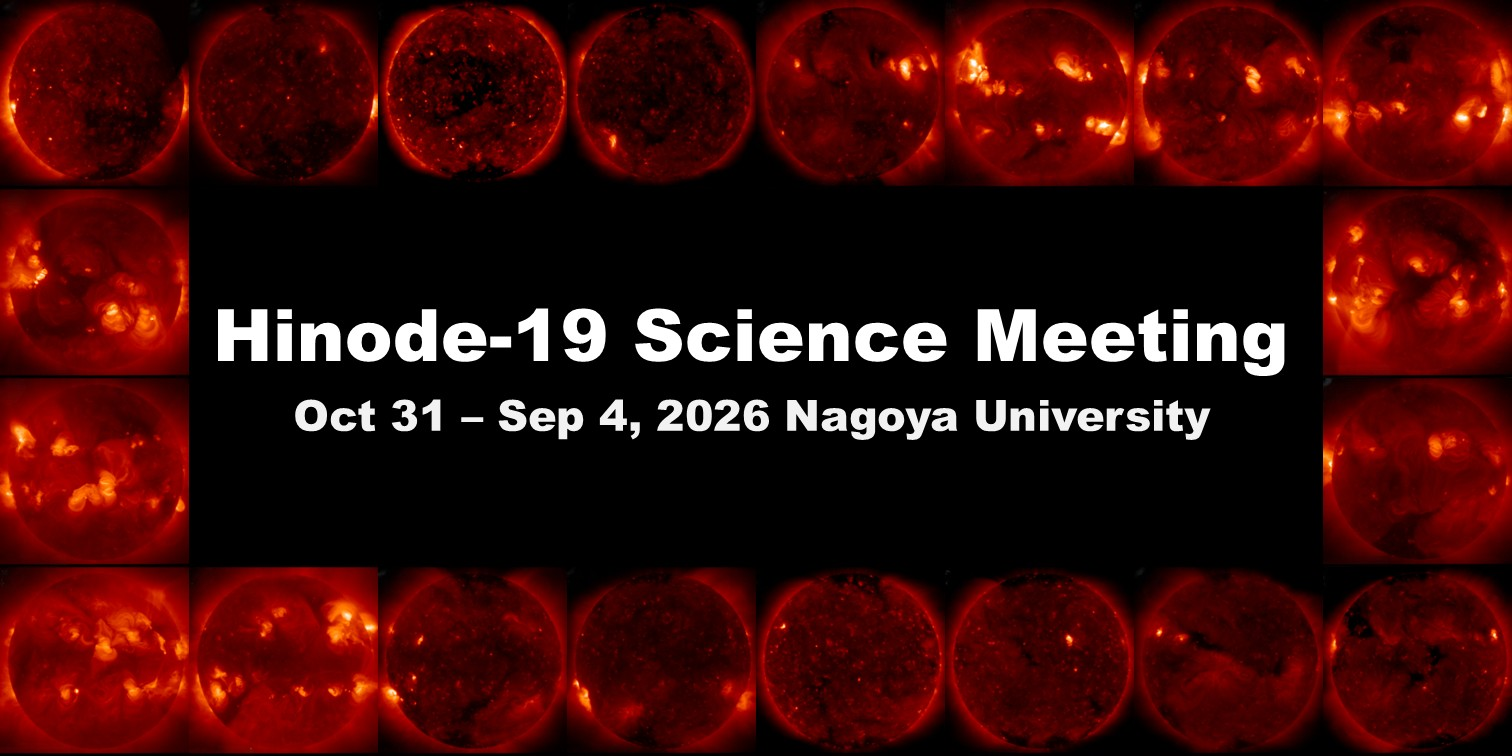
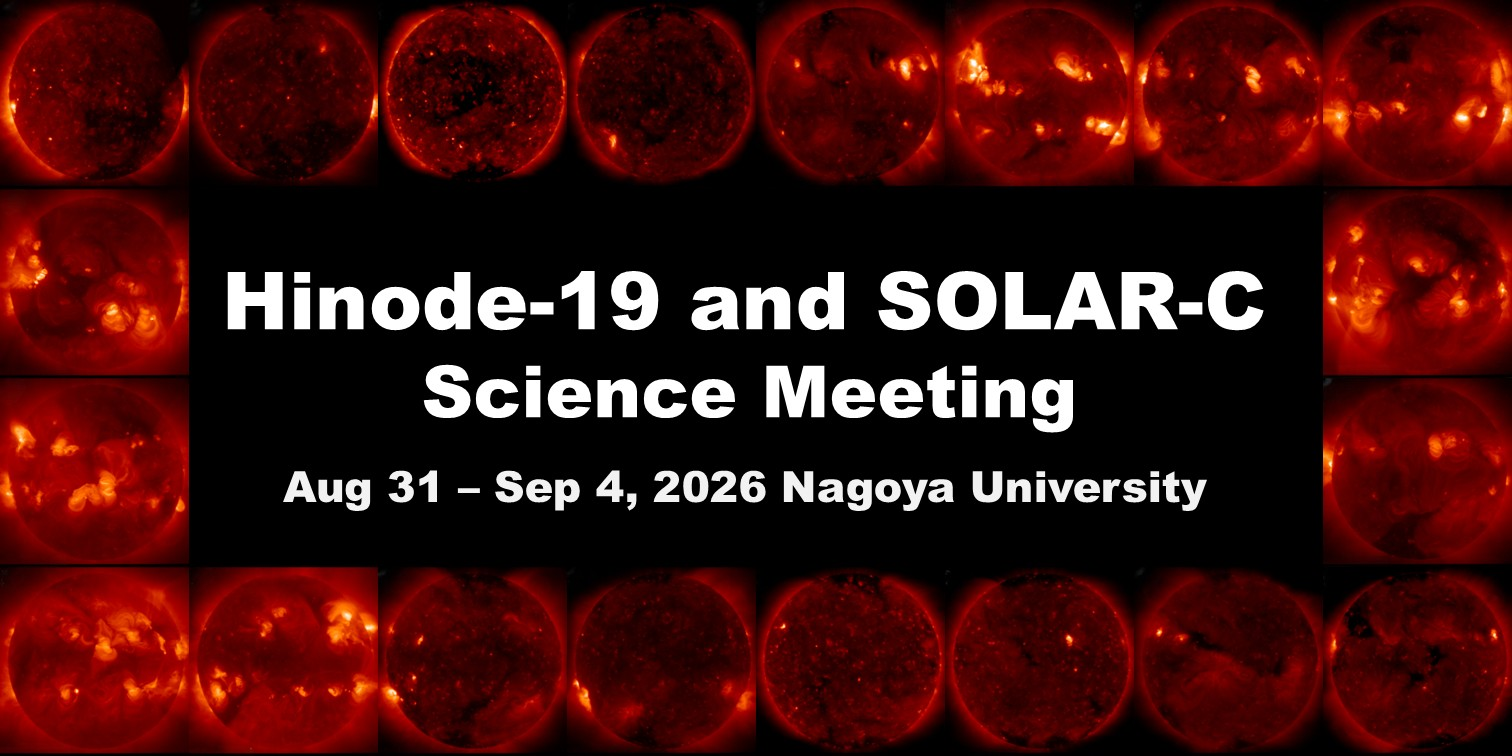
modify header.jpg and SOC/LOC namelist

Changed region(s): [[0.1243, 0.3347, 0.8704, 0.578], [0.1865, 0.6085, 0.8082, 0.6693]]

diff --git a/index.html b/index.html
@@ -29,7 +29,7 @@
       <nav id="nav">
 	<ul>
 	  <li><a href="#scope" class="active">Overview</a></li>
-	  <li><a href="#important_date">Important Date</a></li>
+	  <li><a href="#important_date">Important Dates</a></li>
 	  <li><a href="#venue">Venue</a></li>
 	  <li><a href="#registration">Registration</a></li>
 	  <li><a href="#program">Program</a></li>
@@ -59,7 +59,7 @@
 	  <div class="spotlight">
 	    <div class="content">
 	      <header class="major">
-		<h2>Important date</h2>
+		<h2>Important Dates</h2>
 	      </header>
 	      <p> This page is under construction. The dates below have not yet been determined. </p>
 	      <div style="width:100%; max-width:800px; margin:auto;">
@@ -159,12 +159,12 @@
 	      <div style="width:100%; max-width:800px; margin:auto;">
 		<ul class="namelist">
 		  <li>
-		    <span class="name">Shinsuke Imada</span>
-		    <span class="affiliation"> (University of Tokyo) </span>
-		  </li>
-		  <li>
 		    <span class="name">Haruhisa Iijima</span>
 		    <span class="affiliation"> (Nagoya University) </span>
+		  </li>
+		  <li>
+		    <span class="name">Shinsuke Imada</span>
+		    <span class="affiliation"> (University of Tokyo) </span>
 		  </li>
 		</ul>
 	      </div>
@@ -173,7 +173,11 @@
 	      <div style="width:100%; max-width:800px; margin:auto;">
 		<ul class="namelist">
 		  <li>
-		    <span class="name">Satoshi Masuda</span>
+		    <span class="name">Ken'ichi Fujiki</span>
+		    <span class="affiliation"> (Nagoya University) </span>
+		  </li>
+		  <li>
+		    <span class="name">Yoshiki Hatta</span>
 		    <span class="affiliation"> (Nagoya University) </span>
 		  </li>
 		  <li>
@@ -189,16 +193,12 @@
 		    <span class="affiliation"> (Nagoya University) </span>
 		  </li>
 		  <li>
-		    <span class="name">Ken'ichi Fujiki</span>
+		    <span class="name">Zekun Lu</span>
 		    <span class="affiliation"> (Nagoya University) </span>
 		  </li>
 		  <li>
-		    <span class="name">Yoshiki Hatta</span>
-		    <span class="affiliation"> (Nagoya University) </span>
-		  </li>
-		  <li>
-		    <span class="name">Lu Zekun</span>
-		    <span class="affiliation"> (Nagoya University) </span>
+		    <span class="name">Satoshi Masuda</span>
+		    <span class="affiliation"> (Chair, Nagoya University) </span>
 		  </li>
 		  <li>
 		    <span class="name">Takuma Matsumoto</span>
